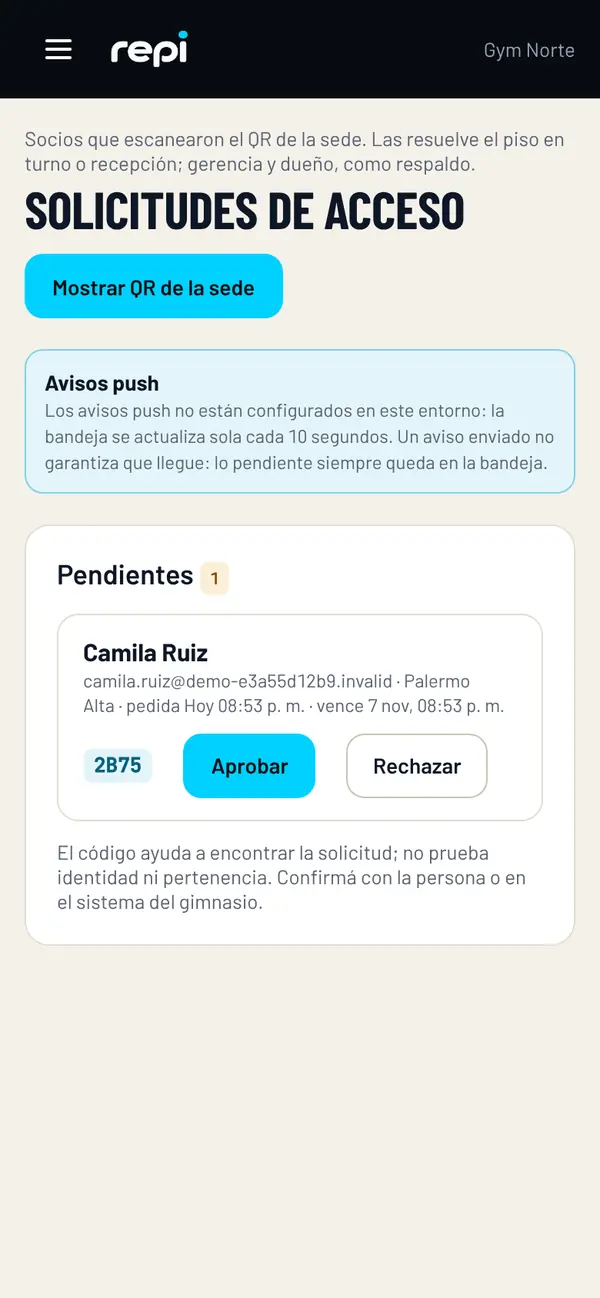
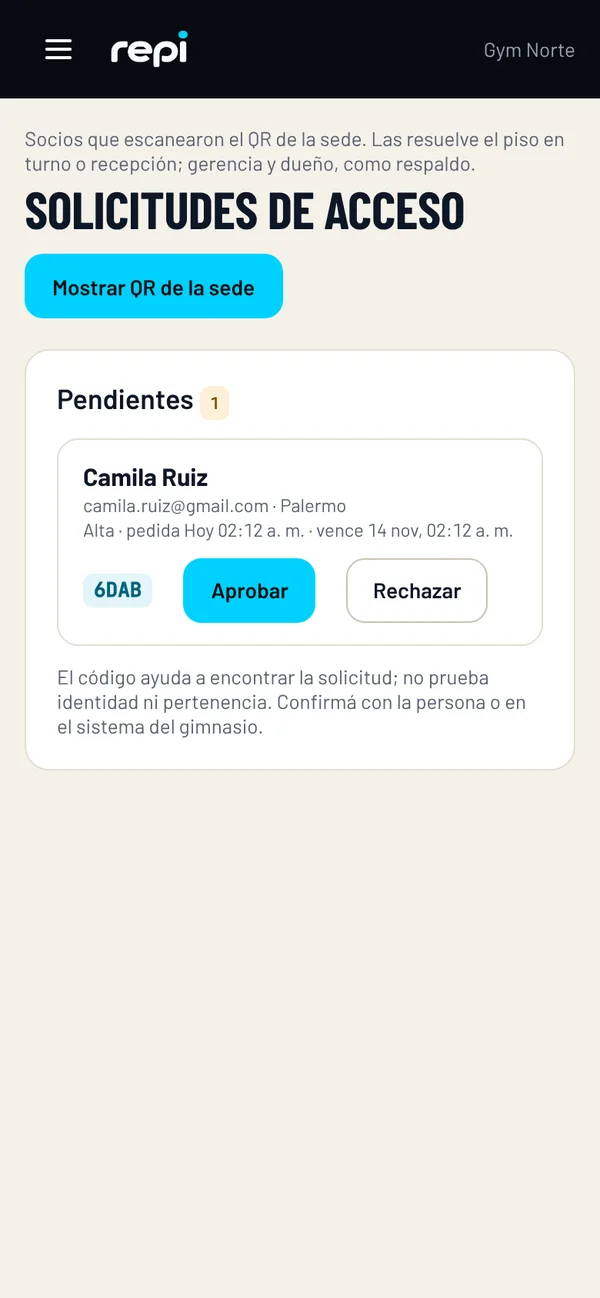
/conoce 4.0, pulido: sin referencia del vendedor en WhatsApp y seis capturas rehechas
- El código del vendedor ya no se agrega al mensaje de WhatsApp (pedido del titular). El enlace personal de D209 sigue
  llegando, oculto, sólo con el formulario.
- Capturas nuevas de training, intelligence, adaptive, owner (Seguimiento de sala), access y control-equipo: sin avisos
  del entorno de demo ni píldora de demo, y con el mismo ejemplo que la escena en vivo (60 kg × 10 → 62,5 kg).
- training-piezas.webp conserva la captura anterior para los recortes por coordenadas de EngineScreen.
- Herramienta: design/films/kit/tools/shots-conoce.mjs.

Claude-Session: https://claude.ai/code/session_01N29uD6UnSfVBnKXaii7k3k

diff --git a/apps/web/e2e/conoce-x4.spec.ts b/apps/web/e2e/conoce-x4.spec.ts
@@ -3,7 +3,7 @@ import { assertLocalTarget, expectAccessible, expectNoHorizontalOverflow, watchE
 
 // Experience 4.0 «The Living Gym» (docs/comercial/EXPERIENCE_4.md): lo nuevo de /conoce. La sala que se recorre, el dato que
 // viaja a la gráfica, la transformación del equipo entre modalidades, el escenario 3D (monta, se cae y vuelve al plano SVG),
-// las correcciones de captación (modalidad elegida, campaña larga, referencia del vendedor) y la veracidad de lo que se afirma.
+// las correcciones de captación (modalidad elegida, campaña larga, origen del enlace de un vendedor) y la veracidad de lo que se afirma.
 // Como el resto de la suite, corre contra la build local con datos ficticios.
 test.beforeAll(({ baseURL }) => assertLocalTarget(baseURL));
 
@@ -263,19 +263,20 @@ test.describe("captación", () => {
     await expect(page.getByRole("status").filter({ hasText: /Recibimos/ })).toBeVisible(); // el servidor lo aceptó
   });
 
-  test("la referencia de un vendedor viaja en el formulario y en los mensajes de WhatsApp", async ({ page, context }) => {
+  test("el enlace personal de un vendedor queda como origen del formulario y no aparece en la página ni en WhatsApp", async ({ page, context }) => {
     let sent: Record<string, unknown> | null = null;
     await page.route("**/api/access/lead", async (r) => { sent = r.request().postDataJSON(); await r.fulfill({ json: { ok: true } }); });
     await context.route(/wa\.me|whatsapp\.com/, (r) => r.abort());
     await page.goto("/conoce?sala=low&ref=V-ABC123#contacto");
     const wa = page.locator("#contacto a[href*='wa.me']").first();
     const before = new URL((await wa.getAttribute("href"))!).searchParams.get("text")!;
-    expect(before).not.toContain("V-ABC123"); // el HTML no cambia: la referencia se agrega al tocar
     const popup = context.waitForEvent("page").then((p) => p.close(), () => {});
     await wa.click();
     await popup;
-    const after = new URL((await wa.getAttribute("href"))!).searchParams.get("text")!;
-    expect(after).toBe(`${before} (Ref. V-ABC123)`);
+    // Pedido del titular (13/11): el código no se muestra ni viaja en el mensaje; sólo va, oculto, con el formulario.
+    expect(new URL((await wa.getAttribute("href"))!).searchParams.get("text")).toBe(before);
+    expect(before).not.toContain("V-ABC123");
+    await expect(page.locator("body")).not.toContainText("V-ABC123");
     // Cambiar de modalidad o de perfil no la pierde.
     await page.getByRole("tab", { name: /REPI Control/ }).click();
     await page.getByRole("tab", { name: /Entrenadores/ }).click();

diff --git a/apps/web/src/components/conoce/referral.ts b/apps/web/src/components/conoce/referral.ts
@@ -1,7 +1,6 @@
 // D209 · Enlace personal de un vendedor (/conoce?ref=V-XXXXXX). Se recuerda en la pestaña; el servidor sólo lo acepta si es de
-// un vendedor activo y lo guarda como origen del contacto, nunca como una venta atribuida. Lo usan el formulario y, desde 4.0,
-// los enlaces de WhatsApp (el código viaja en el mensaje, así la referencia no se pierde si la persona escribe en vez de
-// completar el formulario).
+// un vendedor activo y lo guarda como origen del contacto, nunca como una venta atribuida. Sólo lo usa el formulario, como dato
+// oculto: el visitante no ve el código en ningún lado de la página ni en los mensajes de WhatsApp (pedido del titular, 13/11).
 const REF_KEY = "repi:ref:v1";
 export function referral(): string | null {
   try {
@@ -9,15 +8,4 @@ export function referral(): string | null {
     if (q && /^V-[A-Z0-9]{6}$/i.test(q)) { sessionStorage.setItem(REF_KEY, q.toUpperCase()); return q.toUpperCase(); }
     return sessionStorage.getItem(REF_KEY);
   } catch { return null; }
-}
-/** El enlace de WhatsApp con la referencia del vendedor al final del mensaje (si hay una y todavía no está). */
-export function withReferral(href: string): string {
-  const r = referral();
-  if (!r || !/^https:\/\/(wa\.me|api\.whatsapp\.com)\//.test(href)) return href;
-  try {
-    const u = new URL(href), t = u.searchParams.get("text") ?? "";
-    if (t.includes(r)) return href;
-    u.searchParams.set("text", `${t} (Ref. ${r})`.trim());
-    return u.toString();
-  } catch { return href; }
 }

diff --git a/apps/web/src/content/conoce.ts b/apps/web/src/content/conoce.ts
@@ -133,7 +133,7 @@ export const FEATURES: Feature[] = [
     status: "available", note: "El control de ingreso se activa por gimnasio. REPI no cobra la cuota del gimnasio.", demo: "owner", shot: "/conoce/shots/access.webp", shotAlt: "Solicitudes de acceso por QR en REPI", video: "f-altas", profiles: ["gimnasios"] },
   { id: "tablero", title: "Vista del dueño", value: "Tu gimnasio de un vistazo, por sede.",
     points: ["Socios en REPI, sesiones registradas y satisfacción", "Equipo y servicio: tareas, tiempos y reseñas", "Permisos por rol: dueño, gerencia, recepción y entrenadores"],
-    status: "available", demo: "owner", shot: "/conoce/shots/owner.webp", shotAlt: "Tablero ejecutivo del gimnasio en REPI", profiles: ["gimnasios", "aliados"] },
+    status: "available", demo: "owner", shot: "/conoce/shots/owner.webp", shotAlt: "Seguimiento de sala en REPI: pedidos recibidos, resueltos y tiempos de atención", profiles: ["gimnasios", "aliados"] },
   { id: "comunidad", title: "Comunidad y desafíos", value: "Novedades, descuentos y desafíos que dan motivos para volver.",
     points: ["Desafíos con premio y ranking", "Publicaciones voluntarias con moderación del gimnasio", "Cada socio elige si participa y qué comparte"],
     status: "available", demo: "owner", shot: "/conoce/shots/community.webp", shotAlt: "Comunidad del gimnasio en REPI", profiles: ["gimnasios", "deportistas"] },

diff --git a/apps/web/src/styles/conoce3.css b/apps/web/src/styles/conoce3.css
@@ -294,7 +294,9 @@ html[data-motion="paused"] .x3 *, html[data-motion="paused"] .x3 *::before, html
 @keyframes x3-float { from { translate: 0 -6px; } to { translate: 0 6px; } }
 .x3-phone-screen { --ui-surface: #FFFFFF; --ui-text: #0E1726; --ui-text-2: #334155; --ui-muted: #5A6372; --ui-link: #006F8E; --ui-accent-tint: rgba(0, 137, 176, .10); --ui-accent-line: rgba(0, 137, 176, .40); --ui-warning-text: #8A5300;
   display: flex; flex-direction: column; gap: 10px; padding: 22px 14px 16px; border-radius: 34px 34px 22px 22px; background: #F4F1EA; border: 1px solid var(--x-steel); outline: 6px solid #10161F; color: var(--ui-text); font-family: var(--font-ui); overflow: clip; }
-.x3-crop { display: block; flex: none; background-image: url(/conoce/shots/training.webp); background-repeat: no-repeat; }
+/* Piezas de interfaz (título, botones, sensaciones) recortadas de una captura fija: `training-piezas.webp` no se vuelve a
+   capturar junto con `training.webp`, porque los recortes de EngineScreen.tsx van por coordenadas. */
+.x3-crop { display: block; flex: none; background-image: url(/conoce/shots/training-piezas.webp); background-repeat: no-repeat; }
 .x3-phone-foot { display: flex; flex-direction: column; gap: 10px; }
 .x3-crop.links { align-self: center; }
 /* Escritorio: un teléfono de verdad (proporción vertical) con el pie real de la pantalla de la sesión abajo; en el teléfono

diff --git a/apps/web/src/components/conoce/x3/EngineScreen.tsx b/apps/web/src/components/conoce/x3/EngineScreen.tsx
@@ -1,6 +1,6 @@
 "use client";
 // La pantalla de la serie de Valentina (03 y el módulo Training Intelligence de 05): interfaz real compuesta. Recortes de la
-// captura de la sesión (training.webp) sin ningún número a la vista y el TargetCard real de la app alimentado por el motor
+// captura de la sesión (training-piezas.webp) sin ningún número a la vista y el TargetCard real de la app alimentado por el motor
 // (@repi/domain/intelligence) con un ejemplo fijo: press de banca 3 × 8–10, RIR 2, con 60 kg × 10 la última vez. Así lo que
 // dice el texto y lo que muestra la pantalla es siempre lo mismo, también entre escenas (nunca el «53» de otra captura).
 import { useMemo } from "react";
@@ -26,7 +26,7 @@ export function useEngine() {
 }
 export type Engine = ReturnType<typeof useEngine>;
 
-/** Recortes de la captura real de la sesión (training.webp, 600 × 1298 px), sin ningún número a la vista. Cada uno toma la
+/** Recortes de la captura real de la sesión (training-piezas.webp, 600 × 1298 px; no se recaptura con el resto), sin ningún número a la vista. Cada uno toma la
  *  pieza entera (sin glifos cortados ni pedazos de los botones vecinos). */
 const CROPS = {
   top: { x: 14, y: 26, w: 300, h: 62 },     // ← Torso A

diff --git a/apps/web/src/components/conoce/TrackLink.tsx b/apps/web/src/components/conoce/TrackLink.tsx
@@ -2,13 +2,12 @@
 // Enlace que registra el evento de contacto antes de salir (sendBeacon no se pierde al abrir WhatsApp o el correo).
 import type { Profile, SiteEventName } from "@/lib/site-events";
 import { track } from "@/lib/site-track";
-import { withReferral } from "./referral";
 
 export function TrackLink({ event, profile, target, href, className, children, external, ariaLabel }: {
   event: SiteEventName; profile?: Profile | null; target?: string; href: string; className?: string; children: React.ReactNode; external?: boolean; ariaLabel?: string;
 }) {
   return (
-    <a href={href} className={className} aria-label={ariaLabel} onClick={(e) => { track(event, { profile, target }); if (external) { const h = withReferral(href); if (h !== href) e.currentTarget.href = h; } }} {...(external ? { target: "_blank", rel: "noreferrer" } : {})}>
+    <a href={href} className={className} aria-label={ariaLabel} onClick={() => track(event, { profile, target })} {...(external ? { target: "_blank", rel: "noreferrer" } : {})}>
       {children}
     </a>
   );

diff --git a/docs/comercial/EXPERIENCE_4.md b/docs/comercial/EXPERIENCE_4.md
@@ -128,7 +128,7 @@ Rutas relativas a `apps/web/src/`.
 **Nuevos**
 - `components/conoce/x4/DataStory.tsx` — «El dato vuelve» (03b). Recibe la serie anterior y la real **del motor**; los seis puntos previos de la curva son un ejemplo y la página lo dice al pie del gráfico («los anteriores, un ejemplo ficticio»).
 - `components/conoce/x4/Connected.tsx` — «La sala conectada» (04c, `id="sala"`). Lista de pestañas «Zonas de la sala» con flechas, Inicio y Fin; botones sobre la sala; una tarjeta por zona con su demo.
-- `components/conoce/referral.ts` — referencia del vendedor (`V-XXXXXX`) para el formulario y los mensajes de WhatsApp.
+- `components/conoce/referral.ts` — enlace personal de un vendedor (`?ref=V-XXXXXX`, D209): viaja oculto con el formulario como origen del contacto. No se muestra en la página ni en los mensajes de WhatsApp.
 - `styles/conoce4.css` — estilos de lo anterior.
 - `e2e/conoce-x4.spec.ts` — 17 pruebas (× 2 proyectos).
 
@@ -144,7 +144,13 @@ Rutas relativas a `apps/web/src/`.
 - **Logo:** `public/brand/wm_full.png` con el punto aparte, como antes. No se redibujó.
 - **Captura del tótem:** `public/conoce/shots/control-rutina.webp` (ya publicada).
 - **Tipografías:** Barlow y Barlow Condensed.
-- **Pendiente (no hecho):** volver a capturar `access.webp`, `owner.webp` y `control-equipo.webp` (tienen avisos del entorno de demo) y unificar `training.webp` / `intelligence.webp`, que muestran 53 kg mientras la escena en vivo usa 60 → 62,5 kg.
+- **Capturas rehechas (13/11):** `training`, `intelligence`, `adaptive`, `owner`, `access` y `control-equipo`, con `design/films/kit/tools/shots-conoce.mjs` contra una demo local.
+  - Sin avisos del entorno de demo («Avisos push no están configurados…»), sin la píldora «DEMO · Guía · Otro perfil» y sin la ayuda de primera vez.
+  - `training`, `intelligence` y `adaptive` usan el mismo ejemplo que la escena en vivo: el historial de press de banca de la demo se dejó en 60 kg × 10 y el motor real muestra «Anterior 60 kg × 10 → REPI recomienda 62,5 kg». Ningún número se escribió a mano.
+  - `owner` ahora es «Seguimiento de sala» (pedidos recibidos, resueltos y tiempos); el tablero «Ejecutivo» de la demo está casi en cero.
+  - `access`: el email ficticio de la demo se muestra con un dominio de ejemplo.
+  - `training-piezas.webp` es la captura anterior, que sólo usa `EngineScreen.tsx` para recortar piezas de interfaz sin números (los recortes van por coordenadas).
+  - **Sigue distinto:** la demo que prueba el visitante y los films muestran el ejemplo de la demo (53 kg). Cada uno es coherente por dentro.
 
 ## 9. Veracidad
 
@@ -173,10 +179,10 @@ Fallas encontradas leyendo el código y confirmadas con prueba:
 | Entrar con `?modo=control` y cambiar a Completo dejaba el formulario con la modalidad vieja. | El selector avisa cada cambio; el formulario lo sigue. |
 | «Quiero REPI en mi gimnasio» no preparaba el formulario si antes se había elegido otro perfil. | Ahora lo pone en «gimnasios». |
 | Cambiar de tipo de contacto dejaba el interés y la reunión del tipo anterior. | Se reinician. |
-| La referencia del vendedor no llegaba al WhatsApp. | Se agrega « (Ref. V-XXXXXX)» al mensaje. |
+| La referencia del vendedor no llegaba al WhatsApp. | **Revertido el 13/11 por pedido del titular:** el código ya no se agrega al mensaje. El enlace personal del vendedor (D209) sigue llegando, oculto, sólo con el formulario. |
 | «Pedir demo» de la cabecera no se medía. | Mide `contact_click` con destino `cabecera`. |
 
-**Sin resolver:** la referencia del vendedor no se guarda en los eventos del sitio ni en `/qr`; son cambios de esquema y quedan para decidir.
+**Descartado (13/11):** guardar la referencia del vendedor en los eventos del sitio o en `/qr`. El titular no quiere esa referencia a la vista en `/conoce`.
 
 ## 11. Accesibilidad
 

diff --git a/docs/continuidad/PROXIMA_SESION.md b/docs/continuidad/PROXIMA_SESION.md
@@ -40,9 +40,14 @@ Actualizado: 13/11/2026 (**REPI Experience 4.0 «The Living Gym» (D219): PUBLIC
 - **Pendiente:**
   1. Mirar `/conoce` en un iPhone y en un Android de gama media (fluidez de la sala y giro del dispositivo). Tampoco se probó en Safari ni Firefox, y nadie escuchó los films.
   2. Re-renderizar los seis films que quedaron con el kit viejo y conseguir el logo en vectorial o más grande (hoy 315×154 px) para los cierres.
-  3. Volver a capturar `access.webp`, `owner.webp` y `control-equipo.webp` (avisos del entorno de demo) y unificar las capturas que muestran 53 kg con la escena en vivo (60 → 62,5 kg).
-  4. Decidir si la referencia del vendedor se guarda también en los eventos del sitio y en `/qr` (cambio de esquema).
+  3. ~~Volver a capturar `access.webp`, `owner.webp` y `control-equipo.webp` y unificar las capturas de 53 kg~~ **Hecho el 13/11** (ver «Pulido» más abajo).
+  4. ~~Referencia del vendedor en eventos del sitio y `/qr`~~ **Descartado por el titular el 13/11** (ver «Pulido» más abajo).
 - **Decisiones para el titular:** confirmar el texto de la prueba social en la apertura («Ya funciona en Mar del Plata.») y en el caso.
+- **Pulido del 13/11 (pedido del titular: «hacé todo lo que tengas que hacer para que todo quede perfecto», con libertad total):**
+  - **Referencia del vendedor:** el código ya no se agrega al mensaje de WhatsApp («eso no tiene que estar en /conoce en ningún lado»). Queda sólo lo que ya existía desde D209: si alguien entra por el enlace personal de un vendedor (`/conoce?ref=V-XXXXXX`, que el vendedor copia de su panel), el formulario lo manda oculto como origen del contacto. El visitante no lo ve en ningún lado. Si el titular tampoco quiere eso, hay que quitar el enlace personal del panel de vendedores (decisión de negocio de D209, no se tocó).
+  - **Capturas rehechas** con `design/films/kit/tools/shots-conoce.mjs` (demo local): `training`, `intelligence`, `adaptive`, `owner` (ahora «Seguimiento de sala»), `access` y `control-equipo`. Sin avisos del entorno de demo ni píldora «DEMO»; las del socio muestran el mismo ejemplo que la escena en vivo (60 kg × 10 → 62,5 kg, calculado por el motor real). Detalle en `docs/comercial/EXPERIENCE_4.md` §8.
+  - **Los seis films restantes:** en producción en la rama `claude/films-6` (un agente); se publican aparte cuando estén revisados.
+  - Pruebas: typecheck, guardas 26/26, `e2e/conoce*.spec.ts` 96 pasan y 2 omitidas.
 
 ## Arreglo: limpieza de demos vencidas (alerta «sandbox.purge», código 23503) — 12/11/2026 · PUBLICADO Y VERIFICADO (#112, `4c01c5a`)
 
